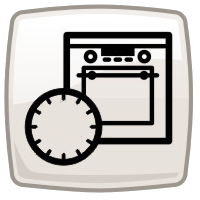
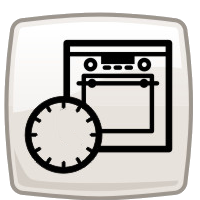
2009-01-13  Thomas Hinkle  <tom@grenville>
* src/lib/plugins/browse_recipes/images/cooktime_empty_clock.png:
	Adjust pixel height so preptime and cooktime clock-pie-wedges can
	be drawn with same size and position

	* src/lib/batchEditor.py (BatchEditor.setup_glade): Use new
	gglobals-based custom handler system.

	* src/lib/GourmetRecipeManager.py (StuffThatShouldBePlugins.batch_edit_recs):
	Fix batch edit callback (self.update_rec_iter ->
	self.rmodel.update_recipe

diff --git a/src/lib/batchEditor.py b/src/lib/batchEditor.py
@@ -5,19 +5,21 @@ from gtk_extras import ratingWidget, timeEntry, cb_extras
 
 class BatchEditor:
 
-    def __init__ (self, rg):
+    _custom_handlers_setup = False
+    
+    def __init__ (self, rg):        
         self.rg = rg
         self.setup_glade()
 
     def setup_glade (self):
-        self.makeTimeEntry = lambda *args: timeEntry.makeTimeEntry()
-        self.makeStarButton = lambda *args: ratingWidget.make_star_button(self.rg.star_generator)
-        def custom_handler (glade,func_name,
-                            widg, s1,s2,i1,i2):
-            f=getattr(self,func_name)
-            w= f(s1,s2,i1,i2)
-            return w
-        gtk.glade.set_custom_handler(custom_handler)        
+
+        if not BatchEditor._custom_handlers_setup:
+            for name,handler in [
+                ('makeStarButton', lambda *args: ratingWidget.make_star_button(self.rg.star_generator)),
+                ('makeTimeEntry', lambda *args: timeEntry.make_time_entry()),
+                ]:
+                gglobals.gladeCustomHandlers.add_custom_handler(name,handler)
+            BatchEditor._custom_handlers_setup = True
         self.glade = gtk.glade.XML(os.path.join(gglobals.gladebase,'batchEditor.glade'))
         self.dialog = self.glade.get_widget('batchEditorDialog')
         self.setFieldWhereBlankButton = self.glade.get_widget('setFieldWhereBlankButton')

diff --git a/src/lib/GourmetRecipeManager.py b/src/lib/GourmetRecipeManager.py
@@ -2,7 +2,7 @@
 import os.path, time, os, sys, re, threading, StringIO, pango, string
 import Image
 import gtk.glade, gtk, gobject, gtk.gdk, traceback
-#import valueEditor, batchEditor
+import valueEditor, batchEditor
 import recipeManager
 import exporters.printer as printer
 import prefs, prefsGui, shopgui, reccard, fnmatch, tempfile
@@ -831,7 +831,7 @@ class StuffThatShouldBePlugins:
                             self.rd.modify_rec(r,changes)
                     else:
                         self.rd.modify_rec(r,self.batchEditor.values)
-                    self.update_rec_iter(r)
+                    self.rmodel.update_recipe(r)
             else:
                 print 'Cancelled'
         self.batchEditor.dialog.hide()
